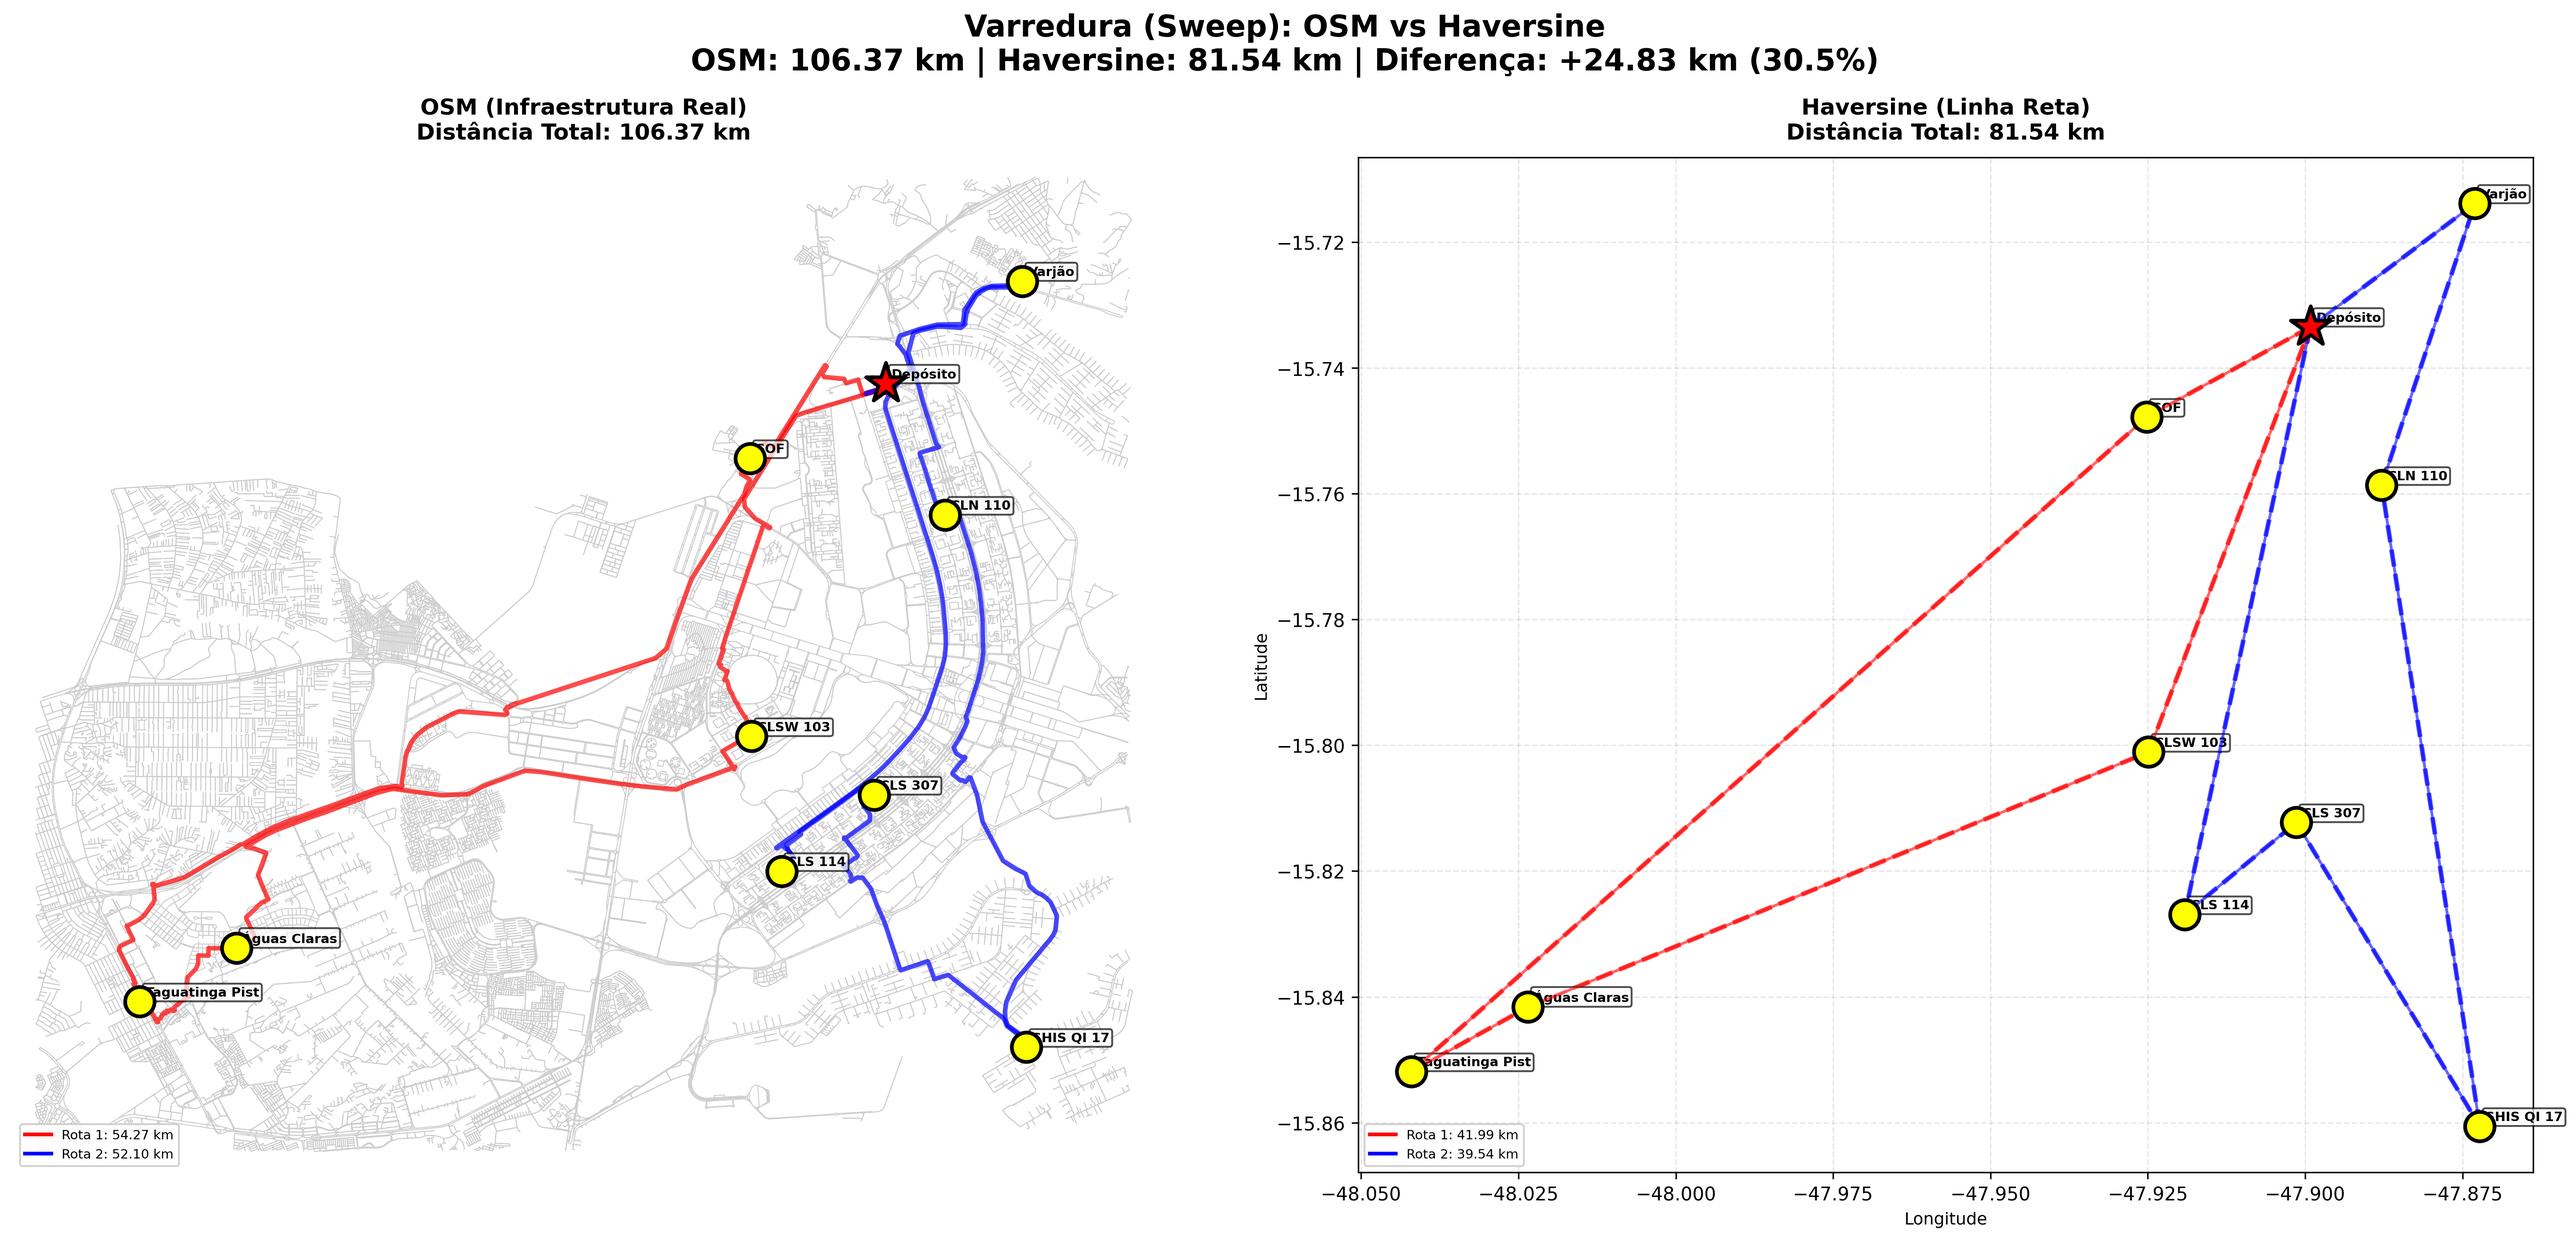
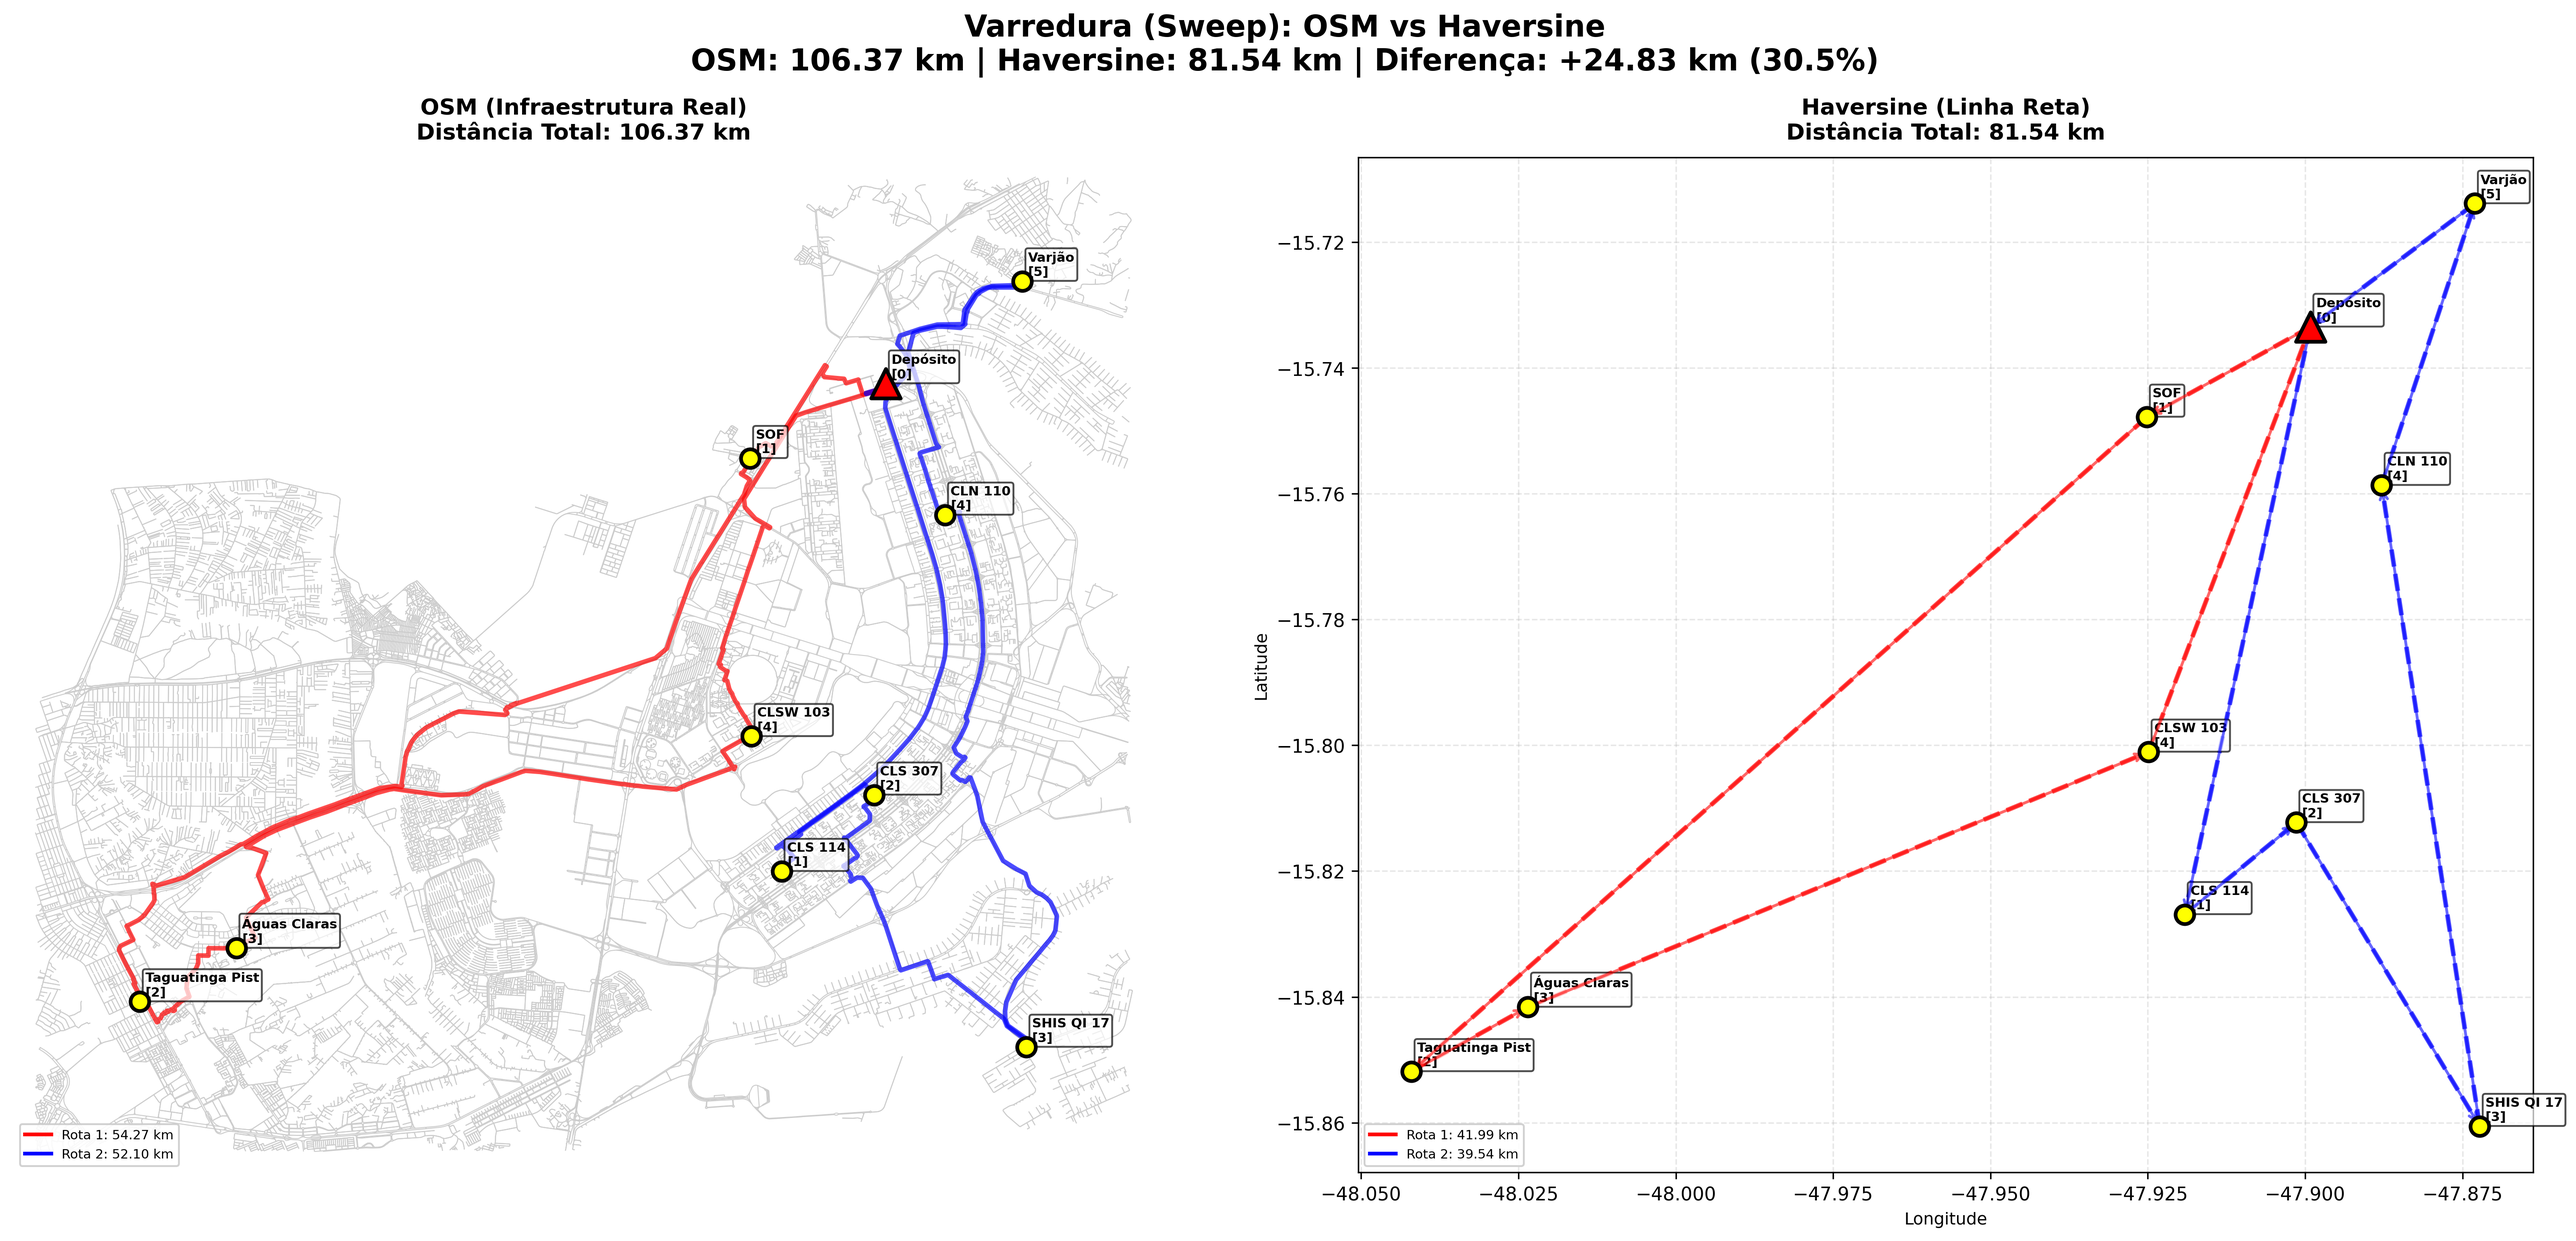
format graph points; warehouse: smaller triangle, clients: smaller

diff --git a/run.py b/run.py
@@ -787,8 +787,8 @@ for i in ids:
         ax.scatter(
             lon,
             lat,
-            s=400,
-            marker="*",
+            s=250,
+            marker="^",
             color="red",
             edgecolors="black",
             linewidths=2,
@@ -948,8 +948,8 @@ for idx, (ax, routes_list, title, dist, time_val) in enumerate(
             ax.scatter(
                 lon,
                 lat,
-                s=500,
-                marker="*",
+                s=250,
+                marker="^",
                 color="red",
                 edgecolors="black",
                 linewidths=2,
@@ -959,7 +959,7 @@ for idx, (ax, routes_list, title, dist, time_val) in enumerate(
             ax.scatter(
                 lon,
                 lat,
-                s=250,
+                s=100,
                 marker="o",
                 color="yellow",
                 edgecolors="black",
@@ -1127,8 +1127,8 @@ for algo_name, result in all_results.items():
                 ax.scatter(
                     lon,
                     lat,
-                    s=500,
-                    marker="*",
+                    s=250,
+                    marker="^",
                     color="red",
                     edgecolors="black",
                     linewidths=2,
@@ -1138,7 +1138,7 @@ for algo_name, result in all_results.items():
                 ax.scatter(
                     lon,
                     lat,
-                    s=250,
+                    s=100,
                     marker="o",
                     color="yellow",
                     edgecolors="black",
@@ -1329,8 +1329,8 @@ for idx, (algo_name, result) in enumerate(all_results.items()):
             ax.scatter(
                 lon,
                 lat,
-                s=500,
-                marker="*",
+                s=250,
+                marker="^",
                 color="red",
                 edgecolors="black",
                 linewidths=2,
@@ -1340,7 +1340,7 @@ for idx, (algo_name, result) in enumerate(all_results.items()):
             ax.scatter(
                 lon,
                 lat,
-                s=250,
+                s=100,
                 marker="o",
                 color="yellow",
                 edgecolors="black",
